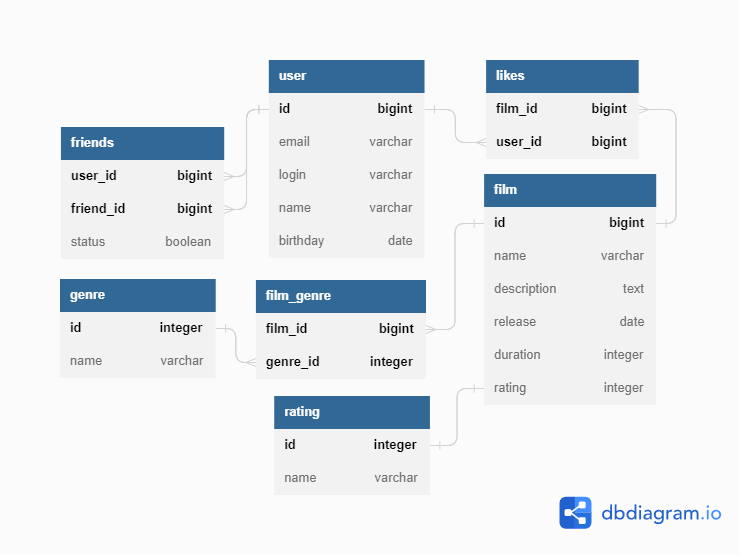
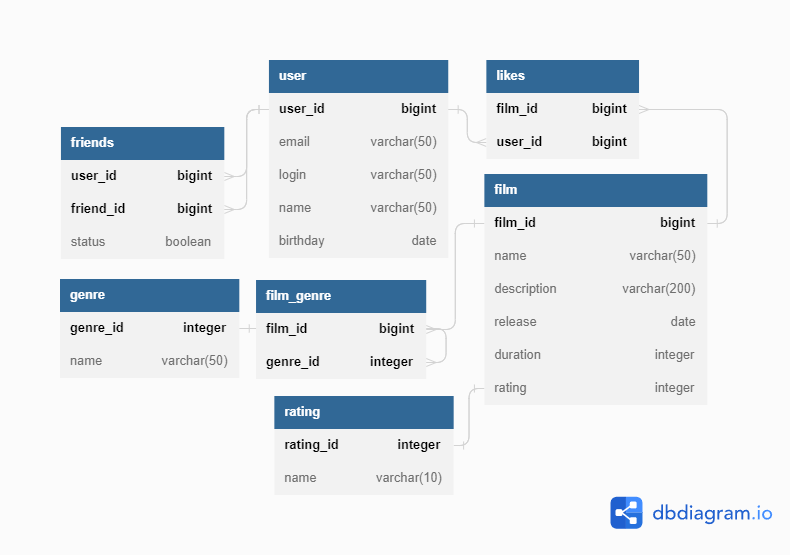
fix: исправить запросы и диаграммы в README после p2p ревью

diff --git a/README.md b/README.md
@@ -20,7 +20,7 @@ Java-Filmorate - это сервис для работы с фильмами и 
 ### Описание диаграммы:
 **user** - содержит данные о пользователях\
 Таблица включает такие поля:
-* первичный ключ `id` - идентификатор пользователя
+* первичный ключ `user_id` - идентификатор пользователя
 * `email` - почта пользователя
 * `login` - логин пользователя
 * `name` - имя пользователя
@@ -31,12 +31,12 @@ Java-Filmorate - это сервис для работы с фильмами и 
 * первичный ключ №1 и внешний ключ `user_id` - идентификатор пользователя
 * первичный ключ №2 и внешний ключ `friend_id` - идентификатор друга пользователя
 * `status` - статус дружбы
-  - `fasle` - ожидает подтверждения
+  - `false` - ожидает подтверждения
   - `true` - дружба подтверждена
 
 **film** - содержит данные о фильмах\
 Таблица включает такие поля:
-* первичный ключ `id` - идентификатор фильма
+* первичный ключ `film_id` - идентификатор фильма
 * `name` - название фильма
 * `description` - описание фильма
 * `release` - дата выхода фильма
@@ -45,7 +45,7 @@ Java-Filmorate - это сервис для работы с фильмами и 
 
 **rating** - содержит типы возрастных рейтингов Ассоциации кинокомпаний
 Таблица включает такие поля:
-* первичный ключ `id` - идентификатор возрастного рейтинга
+* первичный ключ `rating_id` - идентификатор возрастного рейтинга
 * `name` - название возрастного рейтинга:
   - `G`
   - `PG`
@@ -55,7 +55,7 @@ Java-Filmorate - это сервис для работы с фильмами и 
 
 **genre** - содержит типы жанров
 Таблица включает такие поля:
-* первичный ключ `id` - идентификатор жанра
+* первичный ключ `genre_id` - идентификатор жанра
 * `name` - название жанра
 
 **film_genre** - содержит данные жанрах фильмов
@@ -78,7 +78,7 @@ FROM user;
 ```
 SELECT *
 FROM user
-WHERE id = 1;
+WHERE user_id = 1;
 ```
 * Получение друзей пользователя с id = 1:
 ```
@@ -89,21 +89,20 @@ SELECT f.friend_id,
        u.name,
        u.birthday
 FROM friends AS f
-LEFT OUTER JOIN user AS u ON f.friend_id = u.id
+LEFT OUTER JOIN user AS u ON f.friend_id = u.user_id
 WHERE f.user_id = 1 AND f.status = 'true';
 ```
 * Получение общих друзей пользователей с id = 1 и id = 2:
 ```
-SELECT f.friend_id,
+SELECT DISTINCT f.friend_id,
        f.status,
        u.email,
        u.login,
        u.name,
        u.birthday
 FROM friends AS f
-LEFT OUTER JOIN user AS u ON f.friend_id = u.id
-WHERE f.user_id = 1 OR f.user_id = 2
-GROUP BY f.friend_id;
+LEFT OUTER JOIN user AS u ON f.friend_id = u.user_id
+WHERE (f.user_id = 1 OR f.user_id = 2) AND f.status = 'true';
 ```
 * Получение всех фильмов:
 ```
@@ -114,7 +113,7 @@ FROM film;
 ```
 SELECT *
 FROM film
-WHERE id = 1;
+WHERE film_id = 1;
 ```
 * Получение топ 10 популярных фильмов:
 ```
@@ -125,8 +124,8 @@ SELECT l.film_id,
        f.duration,
        r.name AS film_rating
 FROM likes AS l
-LEFT OUTER JOIN film AS f ON l.film_id = f.id
-LEFT OUTER JOIN rating AS r ON f.rating = r.id
+LEFT OUTER JOIN film AS f ON l.film_id = f.film_id
+LEFT OUTER JOIN rating AS r ON f.rating = r.rating_id
 GROUP BY l.film_id
 ORDER BY COUNT(l.user_id) DESC
 LIMIT 10;
